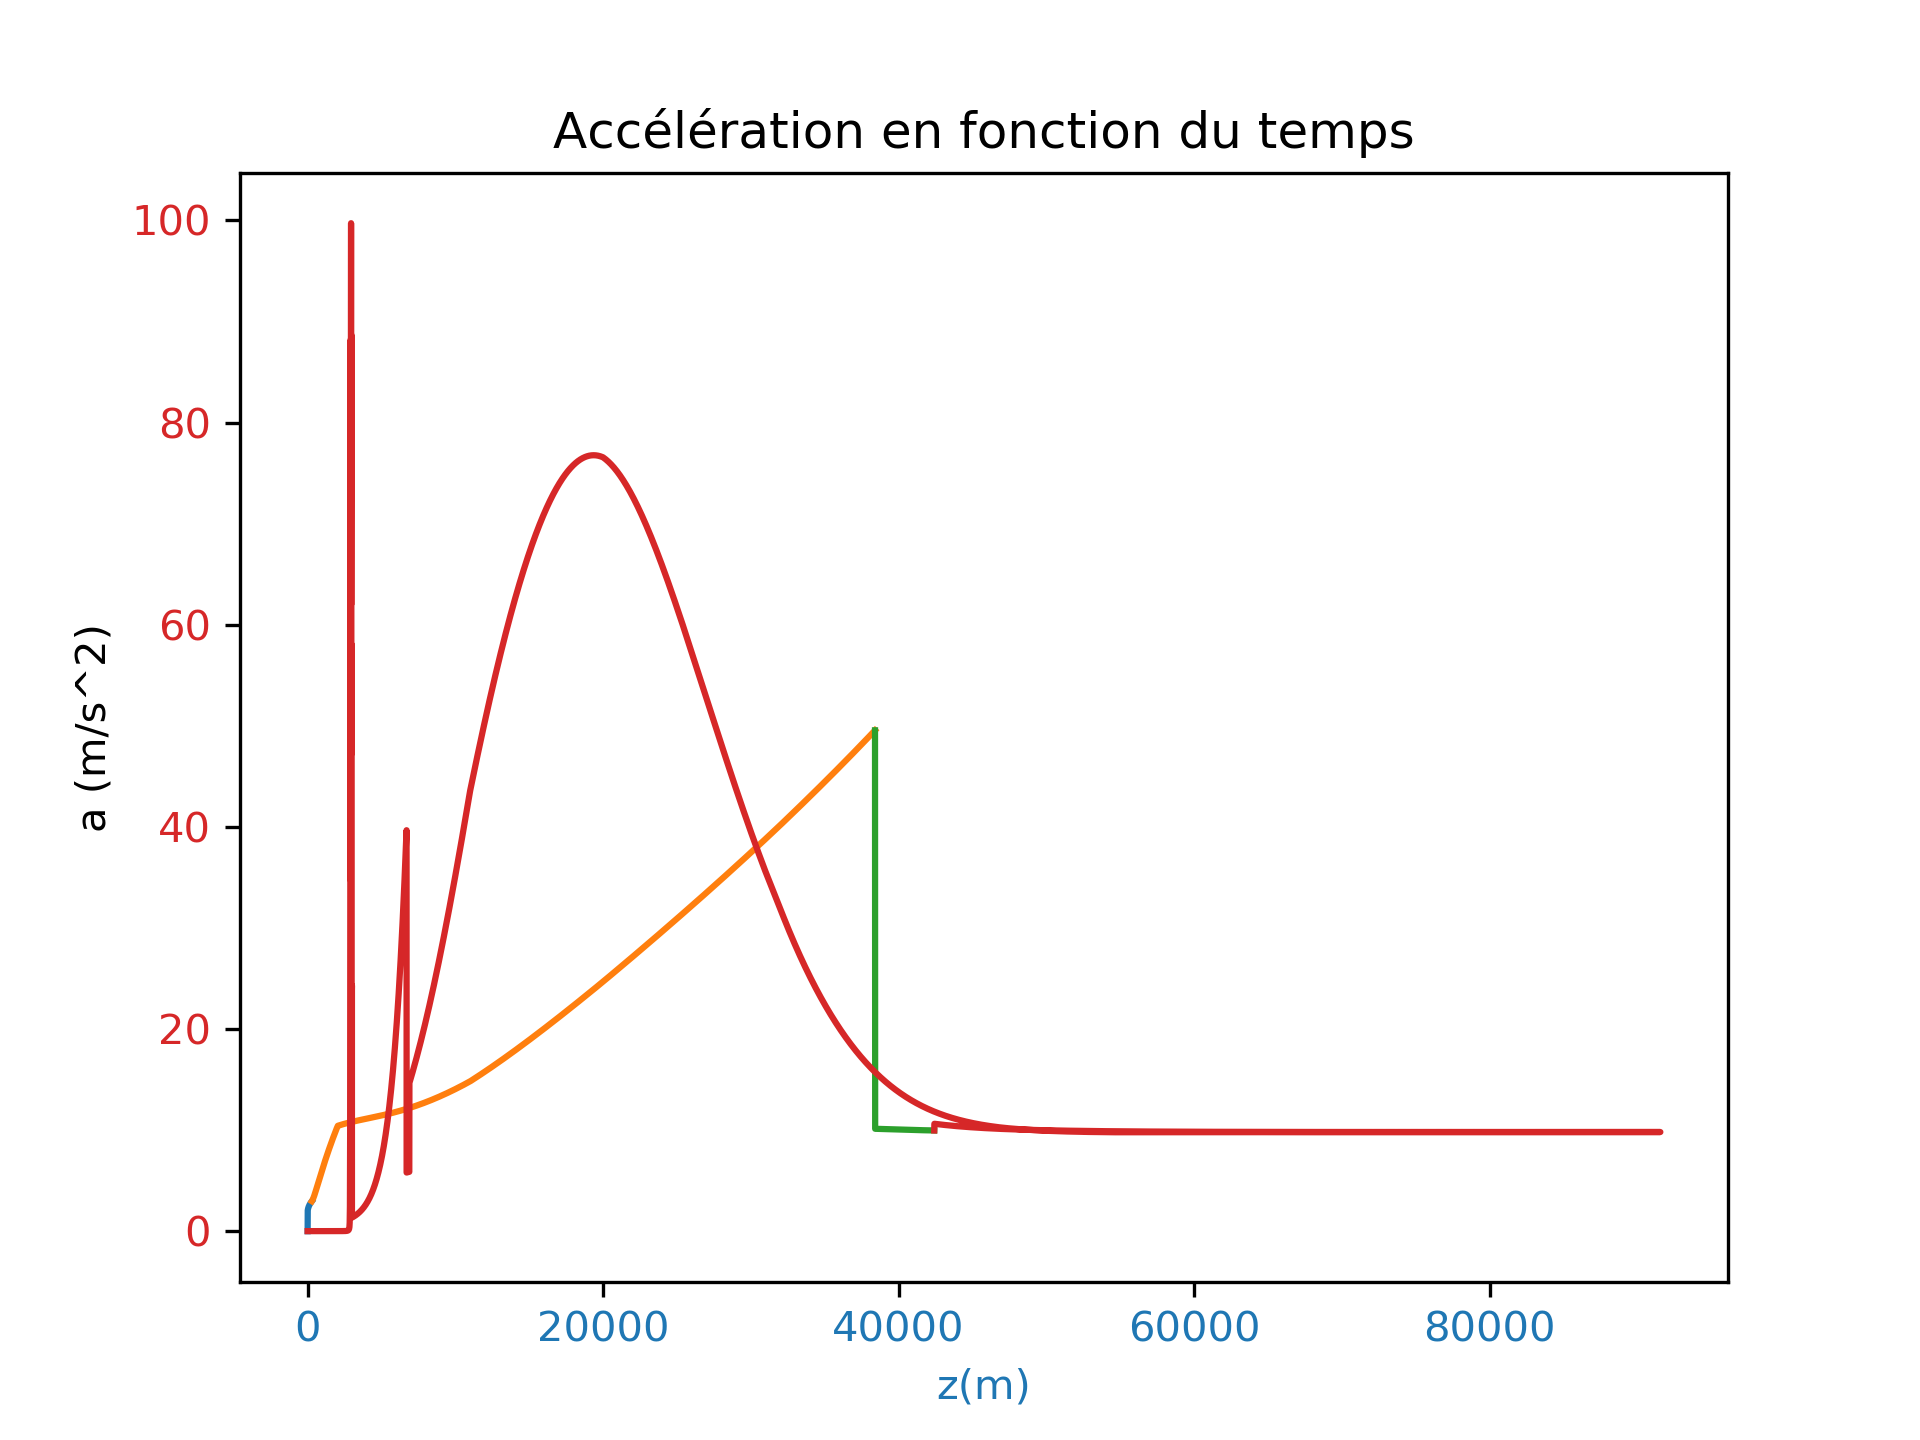
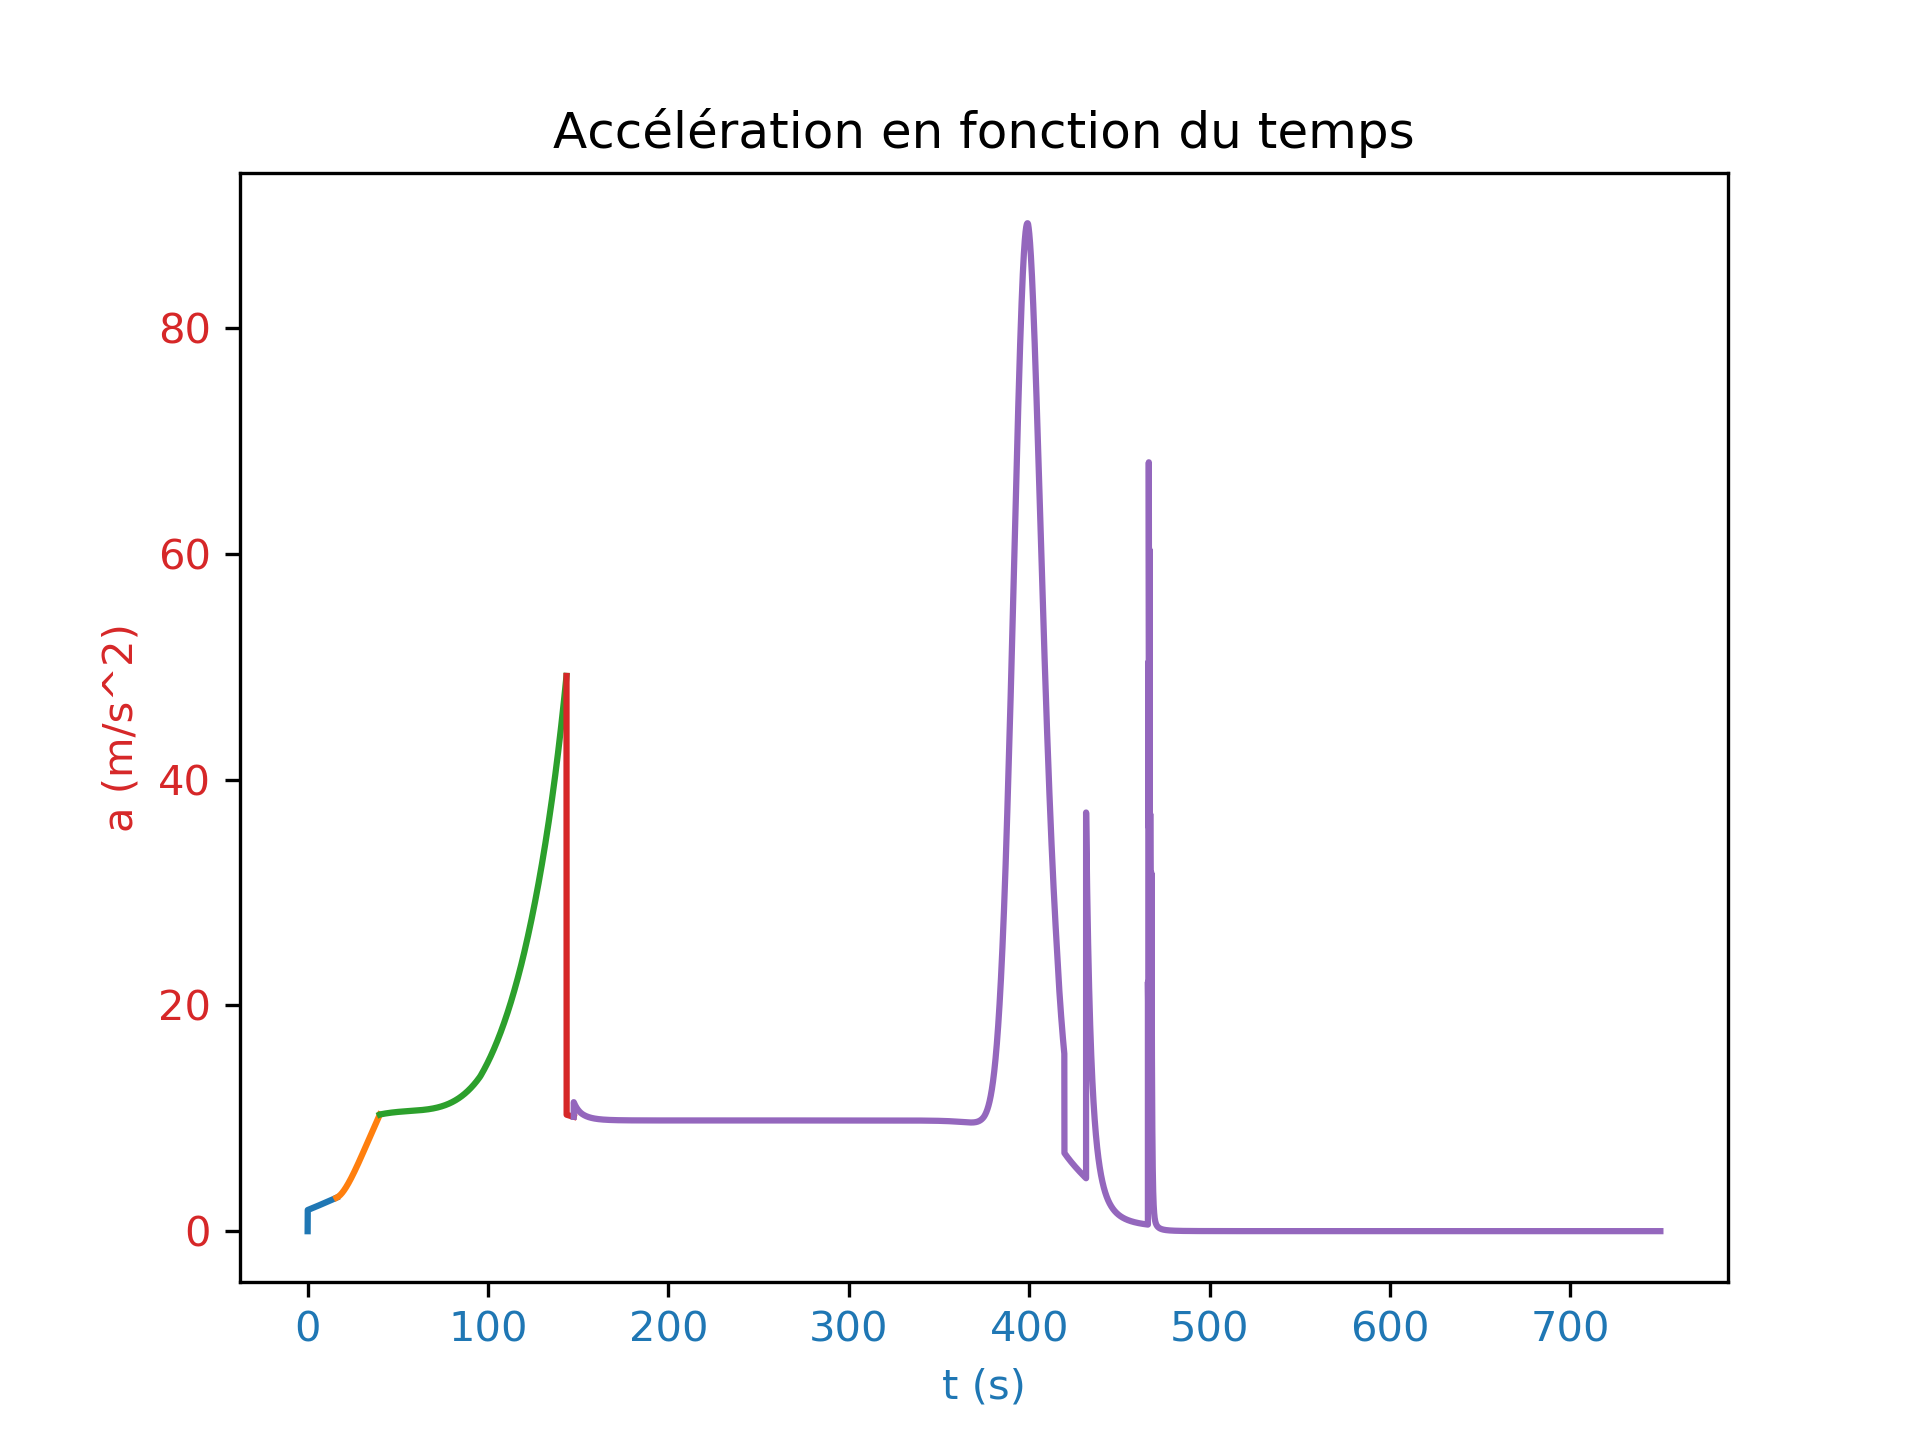
Changement de methode, Euler vers RK4

diff --git a/vol.py b/vol.py
@@ -4,7 +4,7 @@ import matplotlib.pyplot as plt
 
 ################ Définition des fonctions
 
-def vol(N,theta,tsim,m=29981,x0=0,z0=0,vx0=0,vz0=0,ax0=0,az0=0,Cx=0.5,S=np.pi*(0.89)**2,poussee=0,thetaF=0,retro=0):
+def vol(N,theta,tsim,m=29981,x0=0,z0=0,vx0=0,vz0=0,ax0=0,az0=0,Cx=0.5,S=np.pi*(0.89)**2,poussee=0,thetaF=0):
     ## Initialisation de tous les vecteurs.
     t = int(tsim*N)
     dt = 1/N
@@ -25,9 +25,7 @@ def vol(N,theta,tsim,m=29981,x0=0,z0=0,vx0=0,vz0=0,ax0=0,az0=0,Cx=0.5,S=np.pi*(0
         if vz[i] < 0:
             Cx = coeff(vz[i],vx[i],T)    ## Calcul du coeff Cx lors de la descente
             Spara = para(z[i])             ## et de Spara à partir d'une certaine altitude.
-            if retro == 1:
-                vx[i] -= 0
-                retro = 0
+
         if z[i] < 0:            ## On arrete le calcul quand la fusée touhe le sol et on ne garde que les dernières données calculé
             x,z,m,vx,vz,ax,az,Ttab,rhotab = x[:i],z[:i],m,vx[:i],vz[:i],ax[:i],az[:i],Ttab[:i],rhotab[:i]
             break
@@ -35,21 +33,49 @@ def vol(N,theta,tsim,m=29981,x0=0,z0=0,vx0=0,vz0=0,ax0=0,az0=0,Cx=0.5,S=np.pi*(0
         rhotab[i+1] = rho
         if thetaF != 0 and i <= 24/dt:
             theta -= (thetaI - thetaF)*dt/24    ## Calcul de la variation d'angle, pi/2 => pi/4 en 24 secondes
-
-        ax[i+1] = ( prop - 0.5*rho*abs(vx[i])*vx[i]*(S*Cx + Spara*Cpara)*np.cos(theta))*np.cos(theta)/m
-        az[i+1] = ( prop - 0.5*rho*abs(vz[i])*vz[i]*(S*Cx + Spara*Cpara)*np.sin(theta))*np.sin(theta)/m - g
+        #ax[i+1] = ( prop - 0.5*rho*abs(vx[i])*vx[i]*(S*Cx + Spara*Cpara))*np.cos(theta)/m
+        #az[i+1] = ( prop - 0.5*rho*abs(vz[i])*vz[i]*(S*Cx + Spara*Cpara))*np.sin(theta)/m - g
 
         if poussee == 1:    ## Calcul de la variation de masse
             m -= q*dt
         if m <= mcap:       ## Simple précaution pour éviter que le programme ne fasse n'importe quoi
             prop = 0
-        vx[i+1] = vx[i] + (ax[i+1] + ax[i])*dt/2
-        vz[i+1] = vz[i] + (az[i+1] + az[i])*dt/2
+        ##Calcul de la vitesse par la méthode de Runge-Kutta d'ordre 4
+        k1 = acceleration(z[i],vx[i],vz[i],theta,m,poussee,N)
+        vx1,vz1 = vx[i]+k1[0]*dt/2 , vz[i]+k1[1]*dt/2
+        k2 = acceleration(z[i],vx1,vz1,theta,m,poussee,N)
+        vx2,vz2 = vx[i]+k2[0]*dt/2 , vz[i]+k2[1]*dt/2
+        k3 = acceleration(z[i],vx2,vz2,theta,m,poussee,N)
+        vx3,vz3 = vx[i]+k3[0]*dt , vz[i]+k3[1]*dt
+        k4 = acceleration(z[i],vx3,vz3,theta,m,poussee,N)
+        vx4,vz4 = vx[i]+dt*(k1[0]+2*k2[0]+2*k3[0]+k4[0])/6 , vz[i]+dt*(k1[1]+2*k2[1]+2*k3[1]+k4[1])/6
 
-        x[i+1] = x[i] + (vx[i+1] + vx[i])*dt/2
-        z[i+1] = z[i] + (vz[i+1] + vz[i])*dt/2
+        vx[i+1] = vx4
+        vz[i+1] = vz4
+
+        x[i+1] = x[i] + vx[i]*dt
+        z[i+1] = z[i] + vz[i]*dt
+        
+        ax[i+1] = ( prop - 0.5*rho*abs(vx[i+1])*vx[i+1]*(S*Cx + Spara*Cpara))*np.cos(theta)/m
+        az[i+1] = ( prop - 0.5*rho*abs(vz[i+1])*vz[i+1]*(S*Cx + Spara*Cpara))*np.sin(theta)/m - g
+
     return x,z,m,vx,vz,ax,az,Ttab,rhotab
 
+def acceleration(z,vx,vz,theta,m,poussee,N,S=np.pi*(0.89)**2,Cpara=1.75,Spara=0,Cx=0.5):
+    T, rho = atmosphere(z)  ## Calcul de la densité de l'air et de la température en fontion de l'altitude.
+    if vz < 0:
+        Cx = coeff(vz,vx,T)    ## Calcul du coeff Cx lors de la descente
+        Spara = para(z)             ## et de Spara à partir d'une certaine altitude.
+    prop = q*ve
+    if poussee == 1:    ## Calcul de la variation de masse
+        m -= q/N
+    if m <= mcap:       ## Simple précaution pour éviter que le programme ne fasse n'importe quoi
+        prop = 0
+    ax = ( prop - 0.5*rho*abs(vx)*vx*(S*Cx + Spara*Cpara))*np.cos(theta)/m
+    az = ( prop - 0.5*rho*abs(vz)*vz*(S*Cx + Spara*Cpara))*np.sin(theta)/m - g
+
+    return ax, az
+    
 def atmosphere(z):
     B = 34.16e-3
     if z <= 11000:
@@ -132,21 +158,24 @@ x2,z2,m2,vx2,vz2,ax2,az2,Ttab2,rhotab2 = vol(N,theta1,tsim2,x0=x1[-1],z0=z1[-1],
 ## Largage de la tour d’éjection d’urgence à la fin de la poussée de la fusée
 x3,z3,m3,vx3,vz3,ax3,az3,Ttab3,rhotab3 = vol(N,theta2,4,x0=x2[-1],z0=z2[-1],m=m2-580,vx0=vx2[-1],vz0=vz2[-1],ax0=ax2[-1],az0=az2[-1])
 ## Séparation de la capsule Mercury 4 secondes après la fin de la poussée
-x4,z4,m4,vx4,vz4,ax4,az4,Ttab4,rhotab4 = vol(N,np.pi*34/180,tsim3,x0=x3[-1],z0=z3[-1],m=1295,vx0=vx3[-1],vz0=vz3[-1],ax0=ax3[-1],az0=az3[-1],retro=1)
+x4,z4,m4,vx4,vz4,ax4,az4,Ttab4,rhotab4 = vol(N,np.pi*34/180,tsim3,x0=x3[-1],z0=z3[-1],m=1400,vx0=vx3[-1],vz0=vz3[-1],ax0=ax3[-1],az0=az3[-1])
 
 t1 = np.linspace(0,len(z1)/N,len(z1))
-t2 = np.linspace(len(z1)/N,len(z1)/N+len(z2)/N,len(z2))
-t3 = np.linspace(len(z1)/N+len(z2)/N,len(z1)/N+len(z2)/N+len(z3)/N,len(z3))
-t4 = np.linspace(len(z1)/N+len(z2)/N+len(z3)/N,len(z1)/N+len(z2)/N+len(z3)/N+len(z4)/N,len(z4))
+t12 = np.linspace(t1[-1],40,2400)
+t2 = np.linspace(t12[-1],143.5,10350)
+t3 = np.linspace(t2[-1],t2[-1]+4,len(z3))
+t4 = np.linspace(t3[-1],len(z1)/N+len(z2)/N+len(z3)/N+len(z4)/N,len(z4))
 
+para1 = int(np.argwhere(z4<=6700)[0])
+para2 = int(np.argwhere(z4<=3000)[0])
 ############## Tracé des graphiques
 
 #plt.plot(t1,az1) and plt.plot(t2,az2) and plt.plot(t3,az3) and plt.plot(t4,az4)
 #plt.plot(t1,ax1) and plt.plot(t2,ax2) and plt.plot(t3,ax3) and plt.plot(t4,ax4)
-plt.plot(z1,(az1**2 + ax1**2)**0.5) and plt.plot(z2,(az2**2 + ax2**2)**0.5) and plt.plot(z3,(az3**2 + ax3**2)**0.5) and plt.plot(z4,(az4**2 + ax4**2)**0.5)
+plt.plot(t1,(az1**2 + ax1**2)**0.5) and plt.plot(t12,(az2[0:2400]**2 + ax2[0:2400]**2)**0.5) and plt.plot(t2,(az2[2400:]**2 + ax2[2400:]**2)**0.5) and plt.plot(t3,(az3**2 + ax3**2)**0.5) and plt.plot(t4,(az4**2 + ax4**2)**0.5)
 plt.title('Accélération en fonction du temps')
-plt.xlabel('z(m)', color='tab:blue')
-plt.ylabel('a (m/s^2)')
+plt.xlabel('t (s)', color='tab:blue')
+plt.ylabel('a (m/s^2)', color='tab:red')
 plt.tick_params(axis='y', labelcolor='tab:red')
 plt.tick_params(axis='x', labelcolor='tab:blue')
 plt.savefig('Accélération en fonction du temps.png',dpi=300)
@@ -157,15 +186,22 @@ color = 'tab:red'
 ax0.set_xlabel('x (km)', color='tab:blue')
 ax0.set_ylabel('z (km)', color=color)
 ax0.set_title('Vol d\'Alan Shepard')
-ax0.plot(x1/1000,z1/1000)
-ax0.plot(x2/1000,z2/1000, label=round((len(z1) + len(z2)+ len(z3) + len(z4))/(N*60),2))
-ax0.plot(x3/1000,z3/1000, label=int(max(x4))/1000)
-ax0.plot(x4/1000,z4/1000, label=int(max(z4))/1000)
+ax0.plot(x1/1000,z1/1000, label='Décollage')
+ax0.plot(x2[0:2400]/1000,z2[0:2400]/1000, label='Rotation de la fusée')
+ax0.plot(x2[2400:]/1000,z2[2400:]/1000, label='Poussée')
+ax0.plot(x3/1000,z3/1000, label='Largage de la tour de sauvetage')
+ax0.plot(x4/1000,z4/1000, label='Chute libre')
+ax0.plot(x4[para1]/1000,z4[para1]/1000,'.', label='Ouverture du parachute pilote')
+ax0.plot(x4[para2]/1000,z4[para2]/1000,'.', label='Ouverture du parachute principal')
+
+print('Temps de vol :',round((len(z1) + len(z2)+ len(z3) + len(z4))/(N*60),2))
+print('Distance parcourue :', int(max(x4))/1000)
+print('Altitude maximale :', int(max(z4))/1000)
 
 ax0.tick_params(axis='y', labelcolor=color)
 ax0.tick_params(axis='x', labelcolor='tab:blue')
 
-leg = ax0.legend(loc="center",ncol=2, shadow=True, title="x max et z max (km)", fancybox=True)
+leg = ax0.legend(loc="best",ncol=1, shadow=True, title="Phases de vol", fancybox=True)
 leg.get_title().set_color("red")
 
 plt.savefig('Vol d\'Alan Shepard.png',dpi=300)

diff --git a/Ballon.py b/Ballon.py
@@ -21,7 +21,6 @@ def tir_num(theta,v0,tsim,g = 9.81,x0=16,z0=0):
 
 def tir_num_f(theta,v0,tsim,m=0.450,g=9.81,x0=16,z0=0,Cx=0.45,S=np.pi*(0.11)**2,rho=1.225):
     N = 1000
-    t = np.linspace(0,tsim,N)
     x, z = np.zeros(N),np.zeros(N)
     x[0], z[0] = x0, z0
     dxdt,dzdt = np.zeros(N),np.zeros(N)
@@ -29,7 +28,7 @@ def tir_num_f(theta,v0,tsim,m=0.450,g=9.81,x0=16,z0=0,Cx=0.45,S=np.pi*(0.11)**2,
     dt = tsim/N
     for i in range(N-1):
         dxdt[i+1] = dxdt[i] -0.5*rho*Cx*S*abs(dxdt[i])*dxdt[i]*dt
-        dzdt[i+1] = dzdt[i] + ( -0.5*rho*Cx*S*abs(dzdt[i])*dzdt[i] - g*t[i])*dt/m
+        dzdt[i+1] = dzdt[i] + ( -0.5*rho*Cx*S*abs(dzdt[i])*dzdt[i] - m*g)*dt/m 
         x[i+1] = x[i] + dxdt[i+1]*dt
         z[i+1] = z[i] + dzdt[i+1]*dt
         if z[i+1] < 0:
@@ -60,7 +59,8 @@ for i in range(3,13):
 
 print('maximum de x avec frottement => theta = pi/6')
 print('maximum de x sans frottement => theta = pi/4')
-
+print('xmax = ', max(x))
+print('xfmax = ', max(xf))
 ############# Tracé des graphiques
 
 fig, ax0 = plt.subplots()
